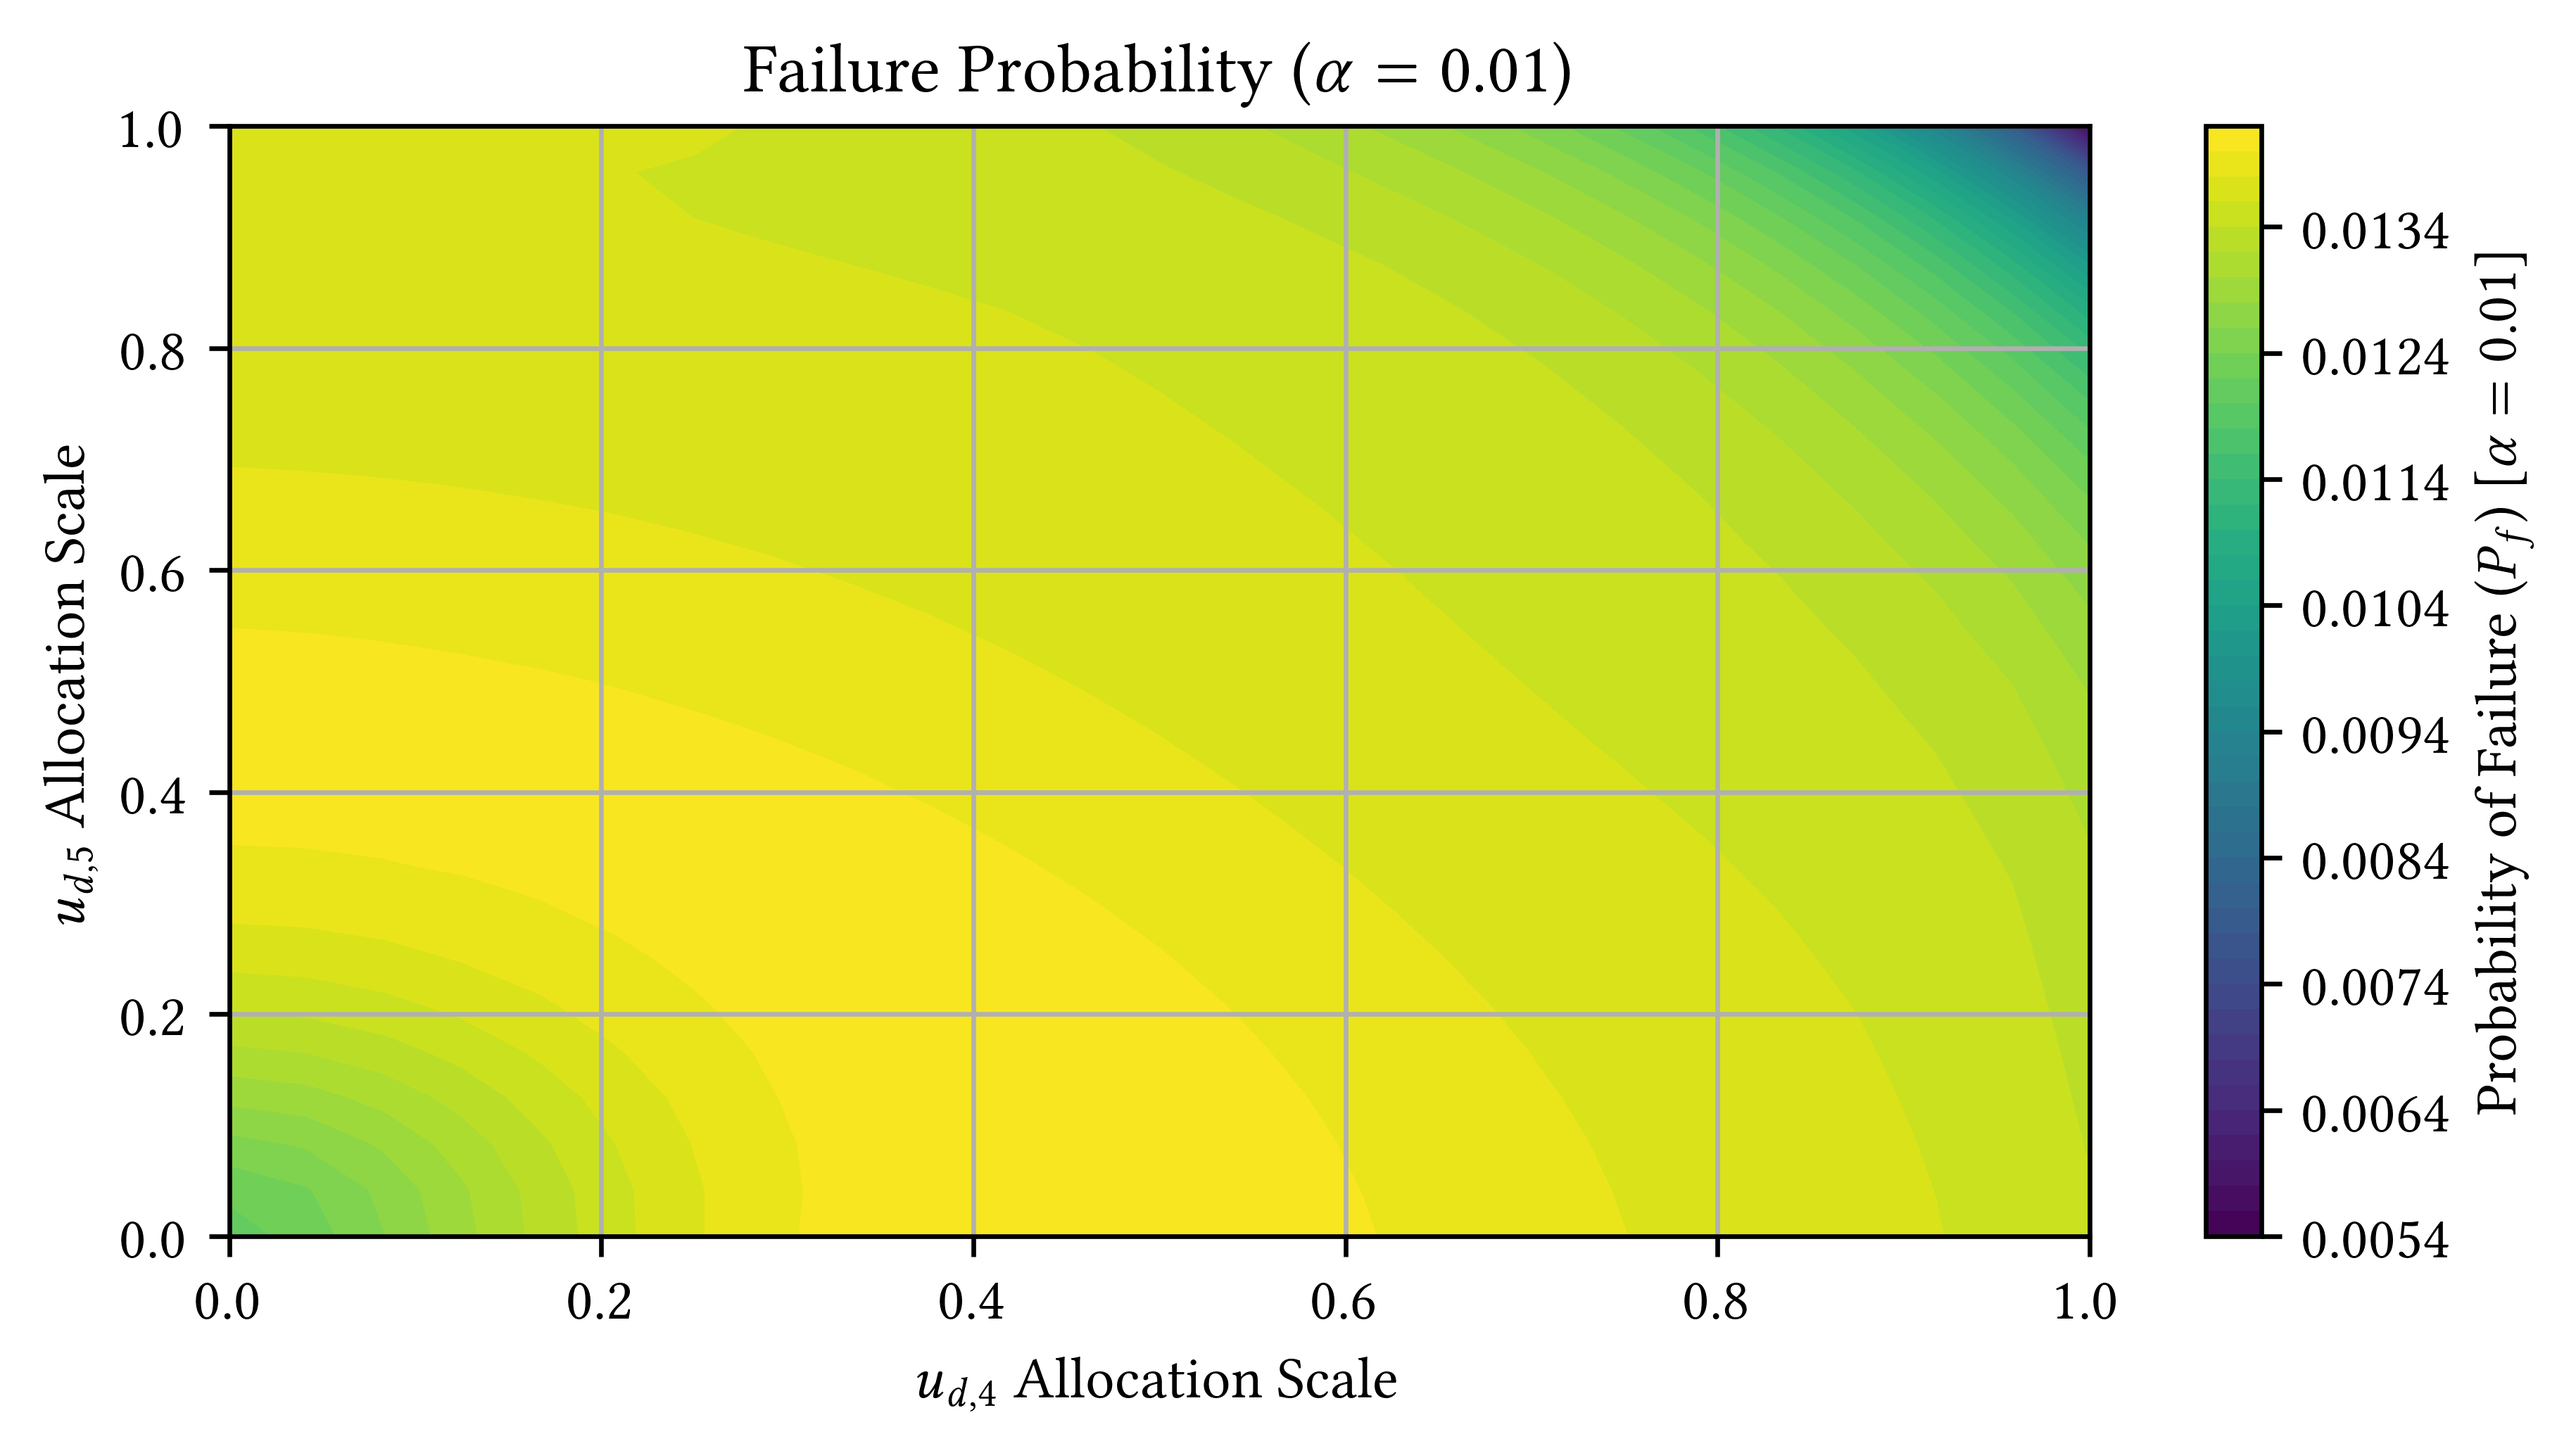
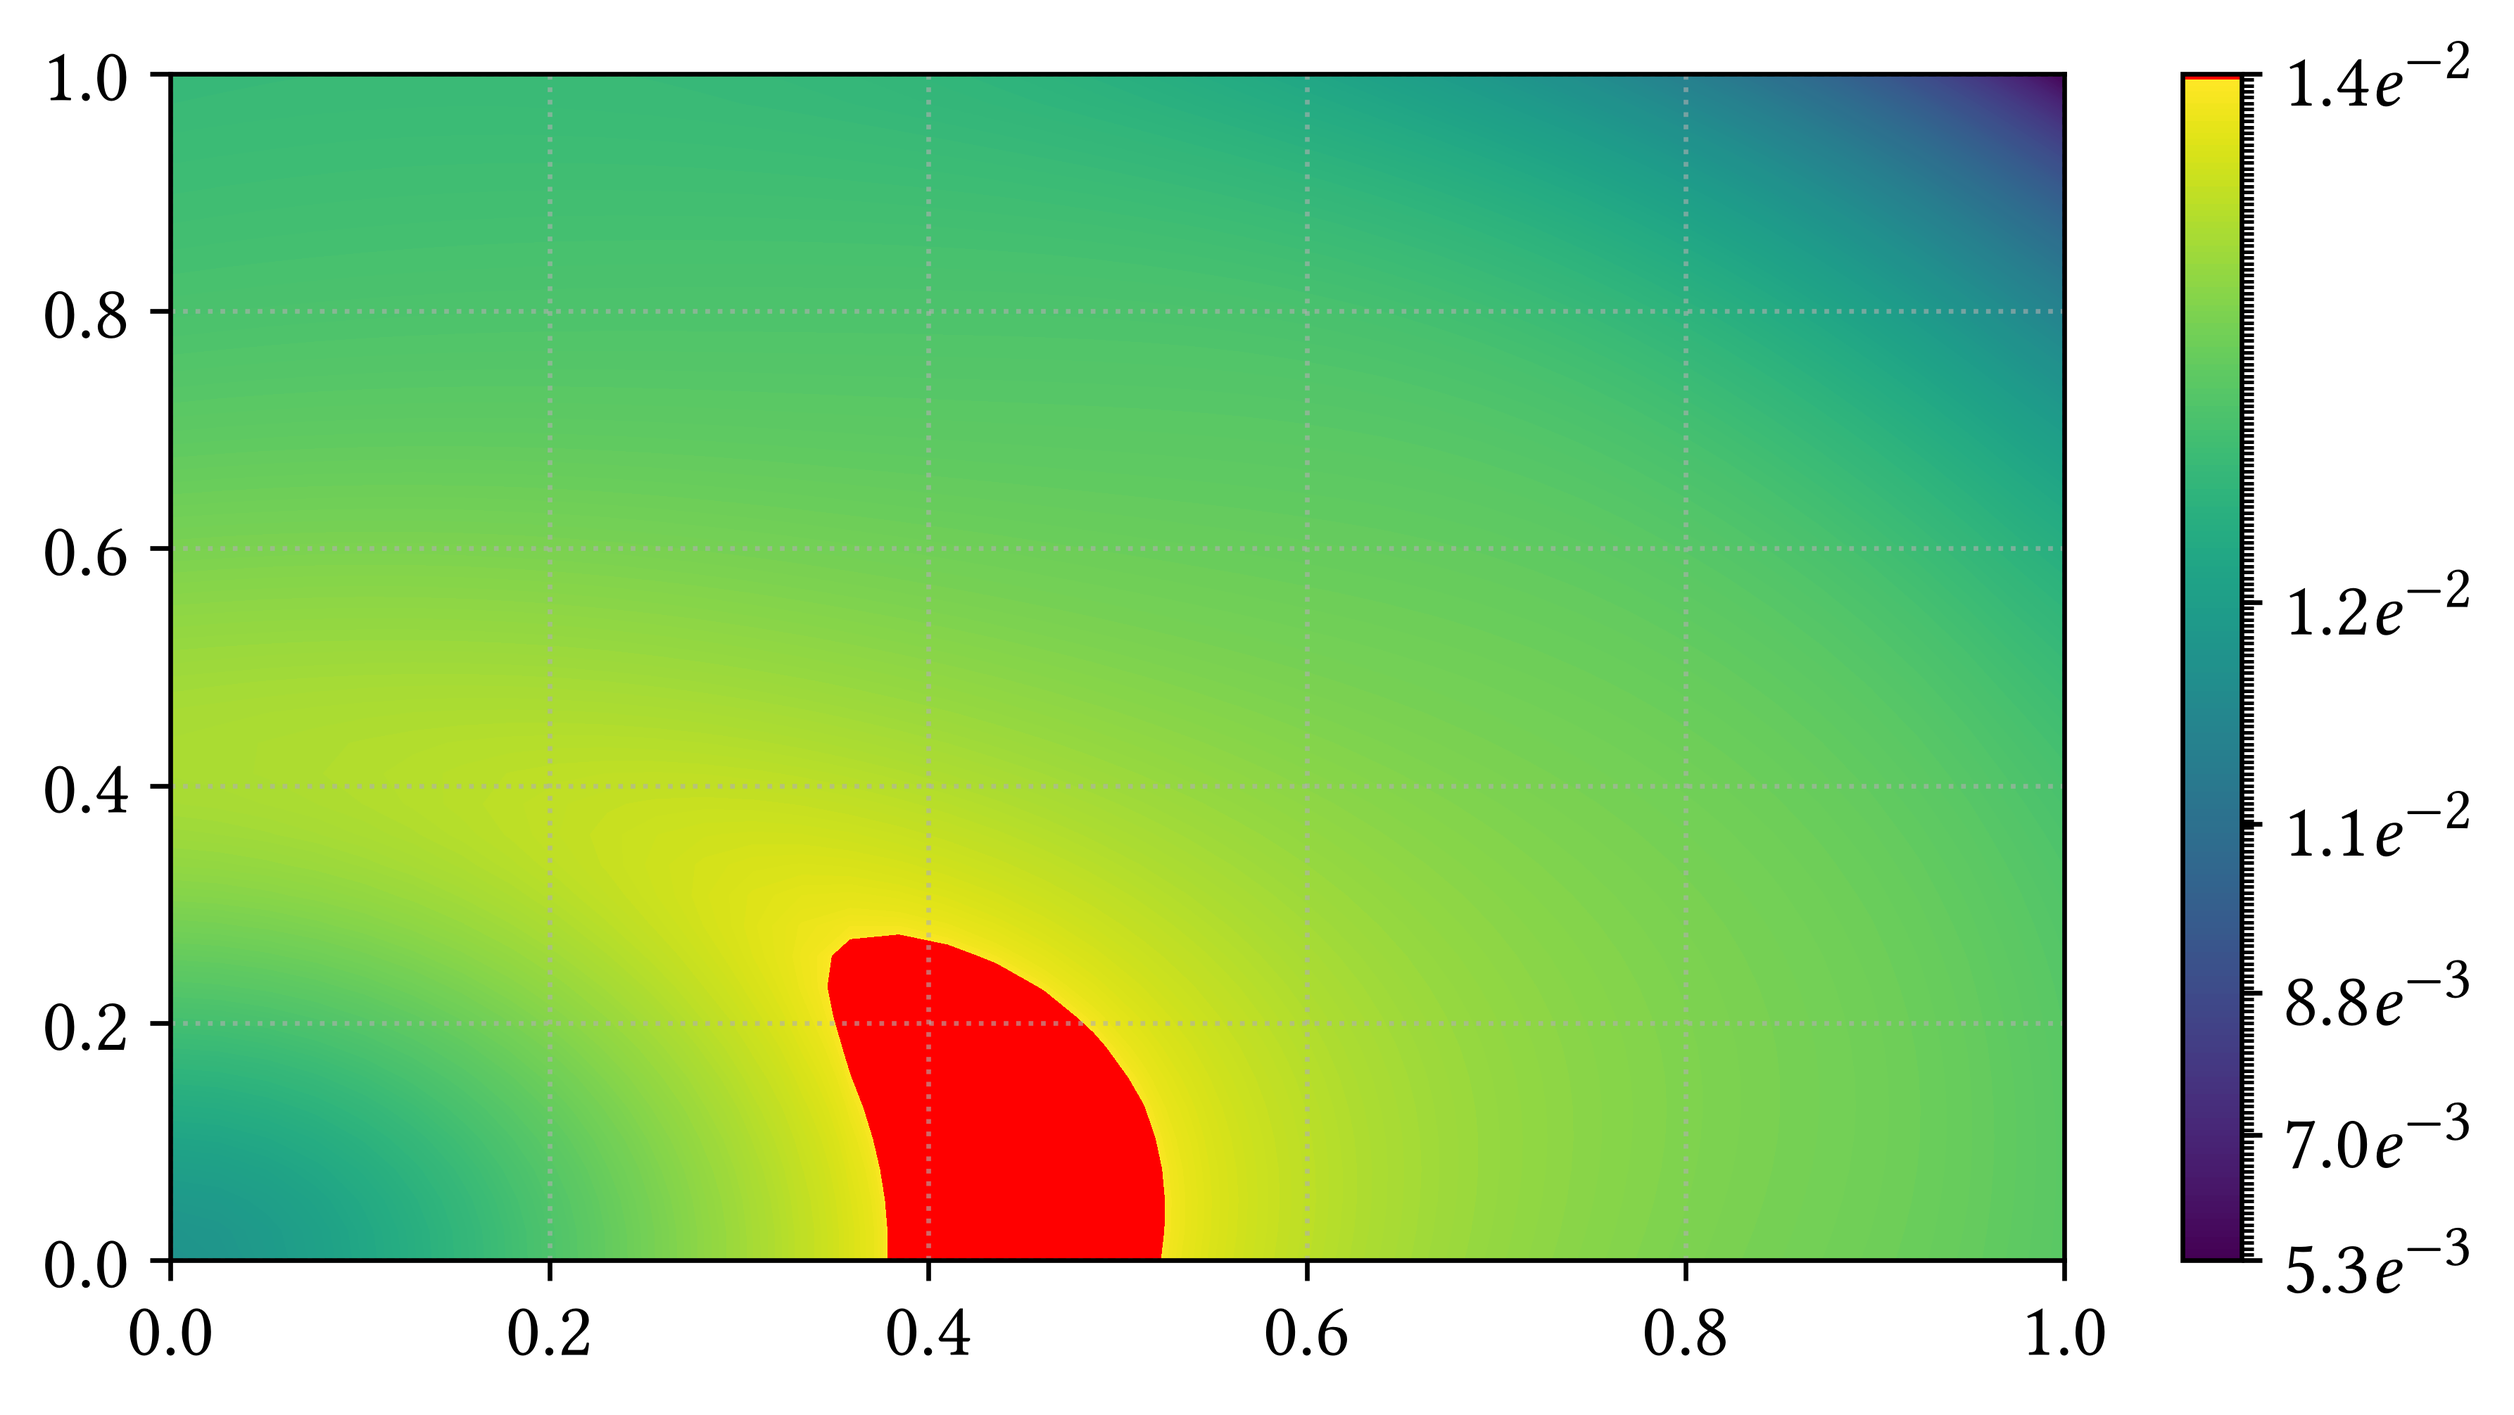
Regenerated images for examples

diff --git a/scripts/plot_pf_2d_4dof_model.py b/scripts/plot_pf_2d_4dof_model.py
@@ -1,9 +1,11 @@
 import argparse
 import numpy as np
 import matplotlib.pyplot as plt
+import matplotlib.colors as mcolors
+from matplotlib.colors import ListedColormap
+from matplotlib.ticker import FuncFormatter
 from gldpy import GLD
 import otaf
-from matplotlib.colors import LogNorm
 
 # Import the model definition you provided
 from otaf.example_models import model1
@@ -11,9 +13,9 @@ from otaf.example_models import model1
 
 DEFAULT_FIG_STYLE = {
     "figsize_cm": (16, 9),          # width, height in cm
-    "font_size": 10,
+    "font_size": 13,
     "font_family": "serif",
-    "usetex": False,                # set True if you want LaTeX-rendered text
+    "usetex": True,                # set True if you want LaTeX-rendered text
 
     # Generic color slots you can reuse everywhere
     "colors": {
@@ -30,8 +32,8 @@ DEFAULT_FIG_STYLE = {
     "grid": True,
     "legend": True,
     "tight_layout": True,
-    "title": True,
-    "labels":True,
+    "title": False,
+    "labels": False,
     
     # Saving options
     "save": False,
@@ -91,8 +93,8 @@ def _setup_mpl_from_style(cfg):
         rc["text.latex.preamble"] = r"""
 \usepackage[T1]{fontenc}
 \usepackage{amsmath}
-\usepackage{libertinus}        % wrapper, picks libertinus-type1 under pdfLaTeX
-\usepackage{libertinust1math}  % Libertinus Math for pdfLaTeX
+\usepackage{libertinus}
+\usepackage{libertinust1math}
 """
     else:
         rc["text.usetex"] = False
@@ -110,7 +112,7 @@ def _new_fig_ax(cfg):
 def _finalize_figure(fig, ax, cfg):
     """Apply grid, x/y limits, saving and showing."""
     if cfg.get("grid", True):
-        ax.grid(True)
+        ax.grid(True, linestyle=":", alpha=0.6)
 
     if cfg.get("xlim") is not None:
         ax.set_xlim(*cfg["xlim"])
@@ -133,71 +135,152 @@ def _finalize_figure(fig, ax, cfg):
 
     return fig, ax
 
-def format_prob_tex(p: float) -> str:
+def format_prob_tex(p: float, digits: int = 2, notation: int = 1) -> str:
     """Return a LaTeX-friendly scientific notation string for a probability."""
     if p == 0:
         return "0"
     exp = int(np.floor(np.log10(p)))
     mant = p / 10**exp
-    return rf"{mant:.2f} \times 10^{{{exp}}}"
+    # Use nested f-string interpolation to dynamically set the decimal precision
+    if notation == 1 :
+        return rf"{mant:.{digits}f} \times 10^{{{exp}}}"
+    if notation == 2 :
+        return rf"{mant:.{digits}f}e^{{{exp}}}"
 
 
-def plot_single_pf_grid(U4_grid, U5_grid, PF_grid, alpha, style=None, use_lognorm=True, **kwargs):
+def build_peak_highlight_cmap(base_cmap_name: str = "viridis", n_colors: int = 200, highlight_color: str = "#FF0000"):
     """
-    Plots a single Probability of Failure grid for a given alpha limit.
+    Builds a colormap of n_colors where the bottom n_colors-1 colors
+    come from base_cmap and the top color is set to highlight_color.
     """
-    # 1. Merge configurations
+    base_cmap = plt.get_cmap(base_cmap_name)
+    colors = base_cmap(np.linspace(0.0, 1.0, n_colors - 1))
+    red_rgba = np.array([mcolors.to_rgba(highlight_color)])
+    spliced_colors = np.vstack([colors, red_rgba])
+    return ListedColormap(spliced_colors)
+
+
+def plot_single_pf_grid(
+    U4_grid,
+    U5_grid,
+    PF_grid,
+    alpha,
+    style=None,
+    norm_type="power",
+    n_levels=200,
+    highlight_pct=0.05,
+    highlight_mode="value",
+    highlight_color="#FF0000",
+    base_cmap="viridis",
+    log_min_floor=1e-5,
+    **kwargs,
+):
+    """
+    Plots a single Probability of Failure grid with:
+      - 200 contour levels
+      - Pure red highlight for peak probabilities mapped strictly to the top bin.
+      - Dynamic gradient resolution (log, power, or linear)
+    """
     cfg = _merge_style(style, **kwargs)
-    
-    # 2. Create Figure and Axes
     fig, ax = _new_fig_ax(cfg)
+
+    vmax = float(np.max(PF_grid))
     
-    # 3. Plot Data
-    pf_safe = np.clip(PF_grid, 1e-16, 1.0)
+    # 1. Determine meaningful vmin to prevent dynamic range collapse
+    pos_vals = PF_grid[PF_grid > 0]
+    if len(pos_vals) > 0:
+        vmin = float(max(np.min(pos_vals), log_min_floor))
+    else:
+        vmin = log_min_floor
     
-    if use_lognorm:
-        try:
-            contour = ax.contourf(
-                U4_grid, U5_grid, pf_safe, 
-                levels=50, 
-                cmap='viridis',
-                norm=LogNorm(vmin=pf_safe.min(), vmax=pf_safe.max())
-            )
-        except ValueError:
-            use_lognorm = False
-            
-    if not use_lognorm:
-        contour = ax.contourf(
-            U4_grid, U5_grid, PF_grid, 
-            levels=50, 
-            cmap='viridis'
-        )
+    if vmax <= vmin:
+        vmax = vmin + 1e-4
+
+    # 2. Compute the threshold boundary for the red highlight
+    pct = highlight_pct if highlight_pct < 1.0 else highlight_pct / 100.0
+
+    if highlight_mode == "quantile":
+        threshold_val = float(np.percentile(PF_grid, 100.0 * (1.0 - pct)))
+    else:
+        # Value-based: top pct band near the maximum
+        threshold_val = vmax - pct * (vmax - vmin)
+
+    # Ensure threshold does not collapse levels
+    threshold_val = max(vmin + 1e-6, min(threshold_val, vmax - 1e-6))
+
+    # 3. Build Level Spacing strictly for n_levels total bins
+    # We need n_levels + 1 boundaries to create exactly n_levels bins
+    if norm_type == "log":
+        sub_levels = np.geomspace(vmin, threshold_val, n_levels)
+    elif norm_type == "power":
+        # Power law clustering at the top (expanding contrast for high Pf)
+        t = np.linspace(0, 1, n_levels)
+        sub_levels = threshold_val - (threshold_val - vmin) * ((1 - t)**2)
+    else:
+        sub_levels = np.linspace(vmin, threshold_val, n_levels)
+
+    # Append absolute maximum to form the final red bin
+    levels = np.append(sub_levels, vmax)
+
+    # Create colormap with exactly n_levels colors
+    custom_cmap = build_peak_highlight_cmap(
+        base_cmap_name=base_cmap,
+        n_colors=n_levels,
+        highlight_color=highlight_color
+    )
     
-    # 4. Colorbar
-    cbar = fig.colorbar(contour, ax=ax)
+    # Force 1-to-1 mapping of bin index to colormap index
+    norm = mcolors.BoundaryNorm(boundaries=levels, ncolors=n_levels)
+
+    # Clip data strictly into [vmin, vmax] for contouring
+    pf_plot = np.clip(PF_grid, vmin, vmax)
+
+    # 4. Render Contour Plot
+    contour = ax.contourf(
+        U4_grid,
+        U5_grid,
+        pf_plot,
+        levels=levels,
+        cmap=custom_cmap,
+        norm=norm,
+        extend="neither"
+    )
+
+    # 5. Colorbar Setup
+    # Limit ticks to 6 evenly spaced markers to avoid rendering 200 black lines
+    cb_ticks = np.linspace(vmin, vmax, 6)
     
-    # 5. Apply Labels and Titles based on usetex preference
+    # Wrap existing format_prob_tex in math-mode delimiters ($...$)
+    def tex_tick_formatter(x, pos):
+        return f"${format_prob_tex(x, digits=1, notation=2)}$"
+
+    cbar = fig.colorbar(
+        contour, 
+        ax=ax, 
+        ticks=cb_ticks, 
+        format=FuncFormatter(tex_tick_formatter)
+    )
+
+    # 6. Apply Labels and Titles
     usetex = cfg.get("usetex", False)
-    
     if cfg.get("labels", True):
         if usetex:
             cbar.set_label(rf"Probability of Failure ($P_f$) [$\alpha = {alpha}$]")
-            ax.set_xlabel(r"$u_{d,4}$ Allocation Scale")
-            ax.set_ylabel(r"$u_{d,5}$ Allocation Scale")
+            ax.set_xlabel(r"$\lambda_{d,1}$")
+            ax.set_ylabel(r"$\lambda_{d,2}$")
         else:
             cbar.set_label(f"Probability of Failure (Pf) [alpha = {alpha}]")
             ax.set_xlabel("u_d_4 Allocation Scale (0=Max Rot, 1=Max Trans)")
             ax.set_ylabel("u_d_5 Allocation Scale (0=Max Rot, 1=Max Trans)")
 
     if cfg.get("title", True):
+        peak_str = format_prob_tex(vmax) if usetex else f"{vmax:.2e}"
         if usetex:
-            ax.set_title(rf"Failure Probability ($\alpha = {alpha}$)")
+            ax.set_title(rf"$\alpha = {alpha}$, Max $P_f \approx {peak_str}$")
         else:
-            ax.set_title(f"Failure Probability (alpha = {alpha})")
-            
-    # 6. Finalize (Grid, Limits, Save, Show)
+            ax.set_title(f"Failure Probability (alpha = {alpha}, Peak Pf approx {peak_str})")
+
     fig, ax = _finalize_figure(fig, ax, cfg)
-    
     return fig, ax
 
 ###################################################
@@ -215,6 +298,9 @@ def main():
     parser.add_argument("--alphas", type=float, nargs="+", default=[0.0, 0.5, 1.0], help="List of failure limits/alphas")
     parser.add_argument("--grid-res", type=int, default=20, help="Resolution of the 2D grid")
     parser.add_argument("--mc-size", type=int, default=100000, help="Monte Carlo sample size")
+    parser.add_argument("--norm-type", type=str, choices=["log", "linear", "power"], default="log", help="Contour normalization type")
+    parser.add_argument("--highlight-pct", type=float, default=0.05, help="Top percentage to color in red (e.g. 0.05 or 5.0)")
+    parser.add_argument("--highlight-mode", type=str, choices=["value", "quantile"], default="value", help="Method to compute peak threshold")
     args = parser.parse_args()
 
     # 1. Setup Models and Distributions
@@ -257,11 +343,20 @@ def main():
             for alpha in args.alphas:
                 if np.any(np.isnan(gld_params)):
                     # Fallback to empirical probability if GLD fails
-                    pf = np.where(eval_vals < alpha, 1, 0).mean()
+                    pf_raw = (eval_vals < alpha).mean()
                 else:
-                    pf = gld.CDF_num(alpha, gld_params, xtol=1e-6)
+                    try:
+                        pf_raw = gld.CDF_num(alpha, gld_params, xtol=1e-6)
+                    except Exception:
+                        pf_raw = (eval_vals < alpha).mean()
+                
+                # Extract scalar float (gld.CDF_num returns a tuple (cdf_val, abserr))
+                if isinstance(pf_raw, (tuple, list, np.ndarray)):
+                    pf_val = float(pf_raw[0])
+                else:
+                    pf_val = float(pf_raw)
                     
-                PF_grids[alpha][i, j] = pf
+                PF_grids[alpha][i, j] = float(np.clip(pf_val, 0.0, 1.0))
                 
         print(f"Row {i+1}/{args.grid_res} completed.")
 
@@ -277,8 +372,14 @@ def main():
             U5_grid, 
             PF_grids[alpha], 
             alpha=alpha,
+            norm_type=args.norm_type,
+            n_levels=200,
+            highlight_pct=args.highlight_pct,
+            highlight_mode=args.highlight_mode,
+            highlight_color="#FF0000",
+            base_cmap="viridis",
+            log_min_floor=1e-5,
             save=True, 
-            use_lognorm=False,
             save_path=plot_filename, 
             dpi=600,
             show=False,
@@ -286,7 +387,6 @@ def main():
             transparent=True
         )
         
-        # Free up memory explicitly after saving each plot
         plt.close(fig)
 
 if __name__ == "__main__":
